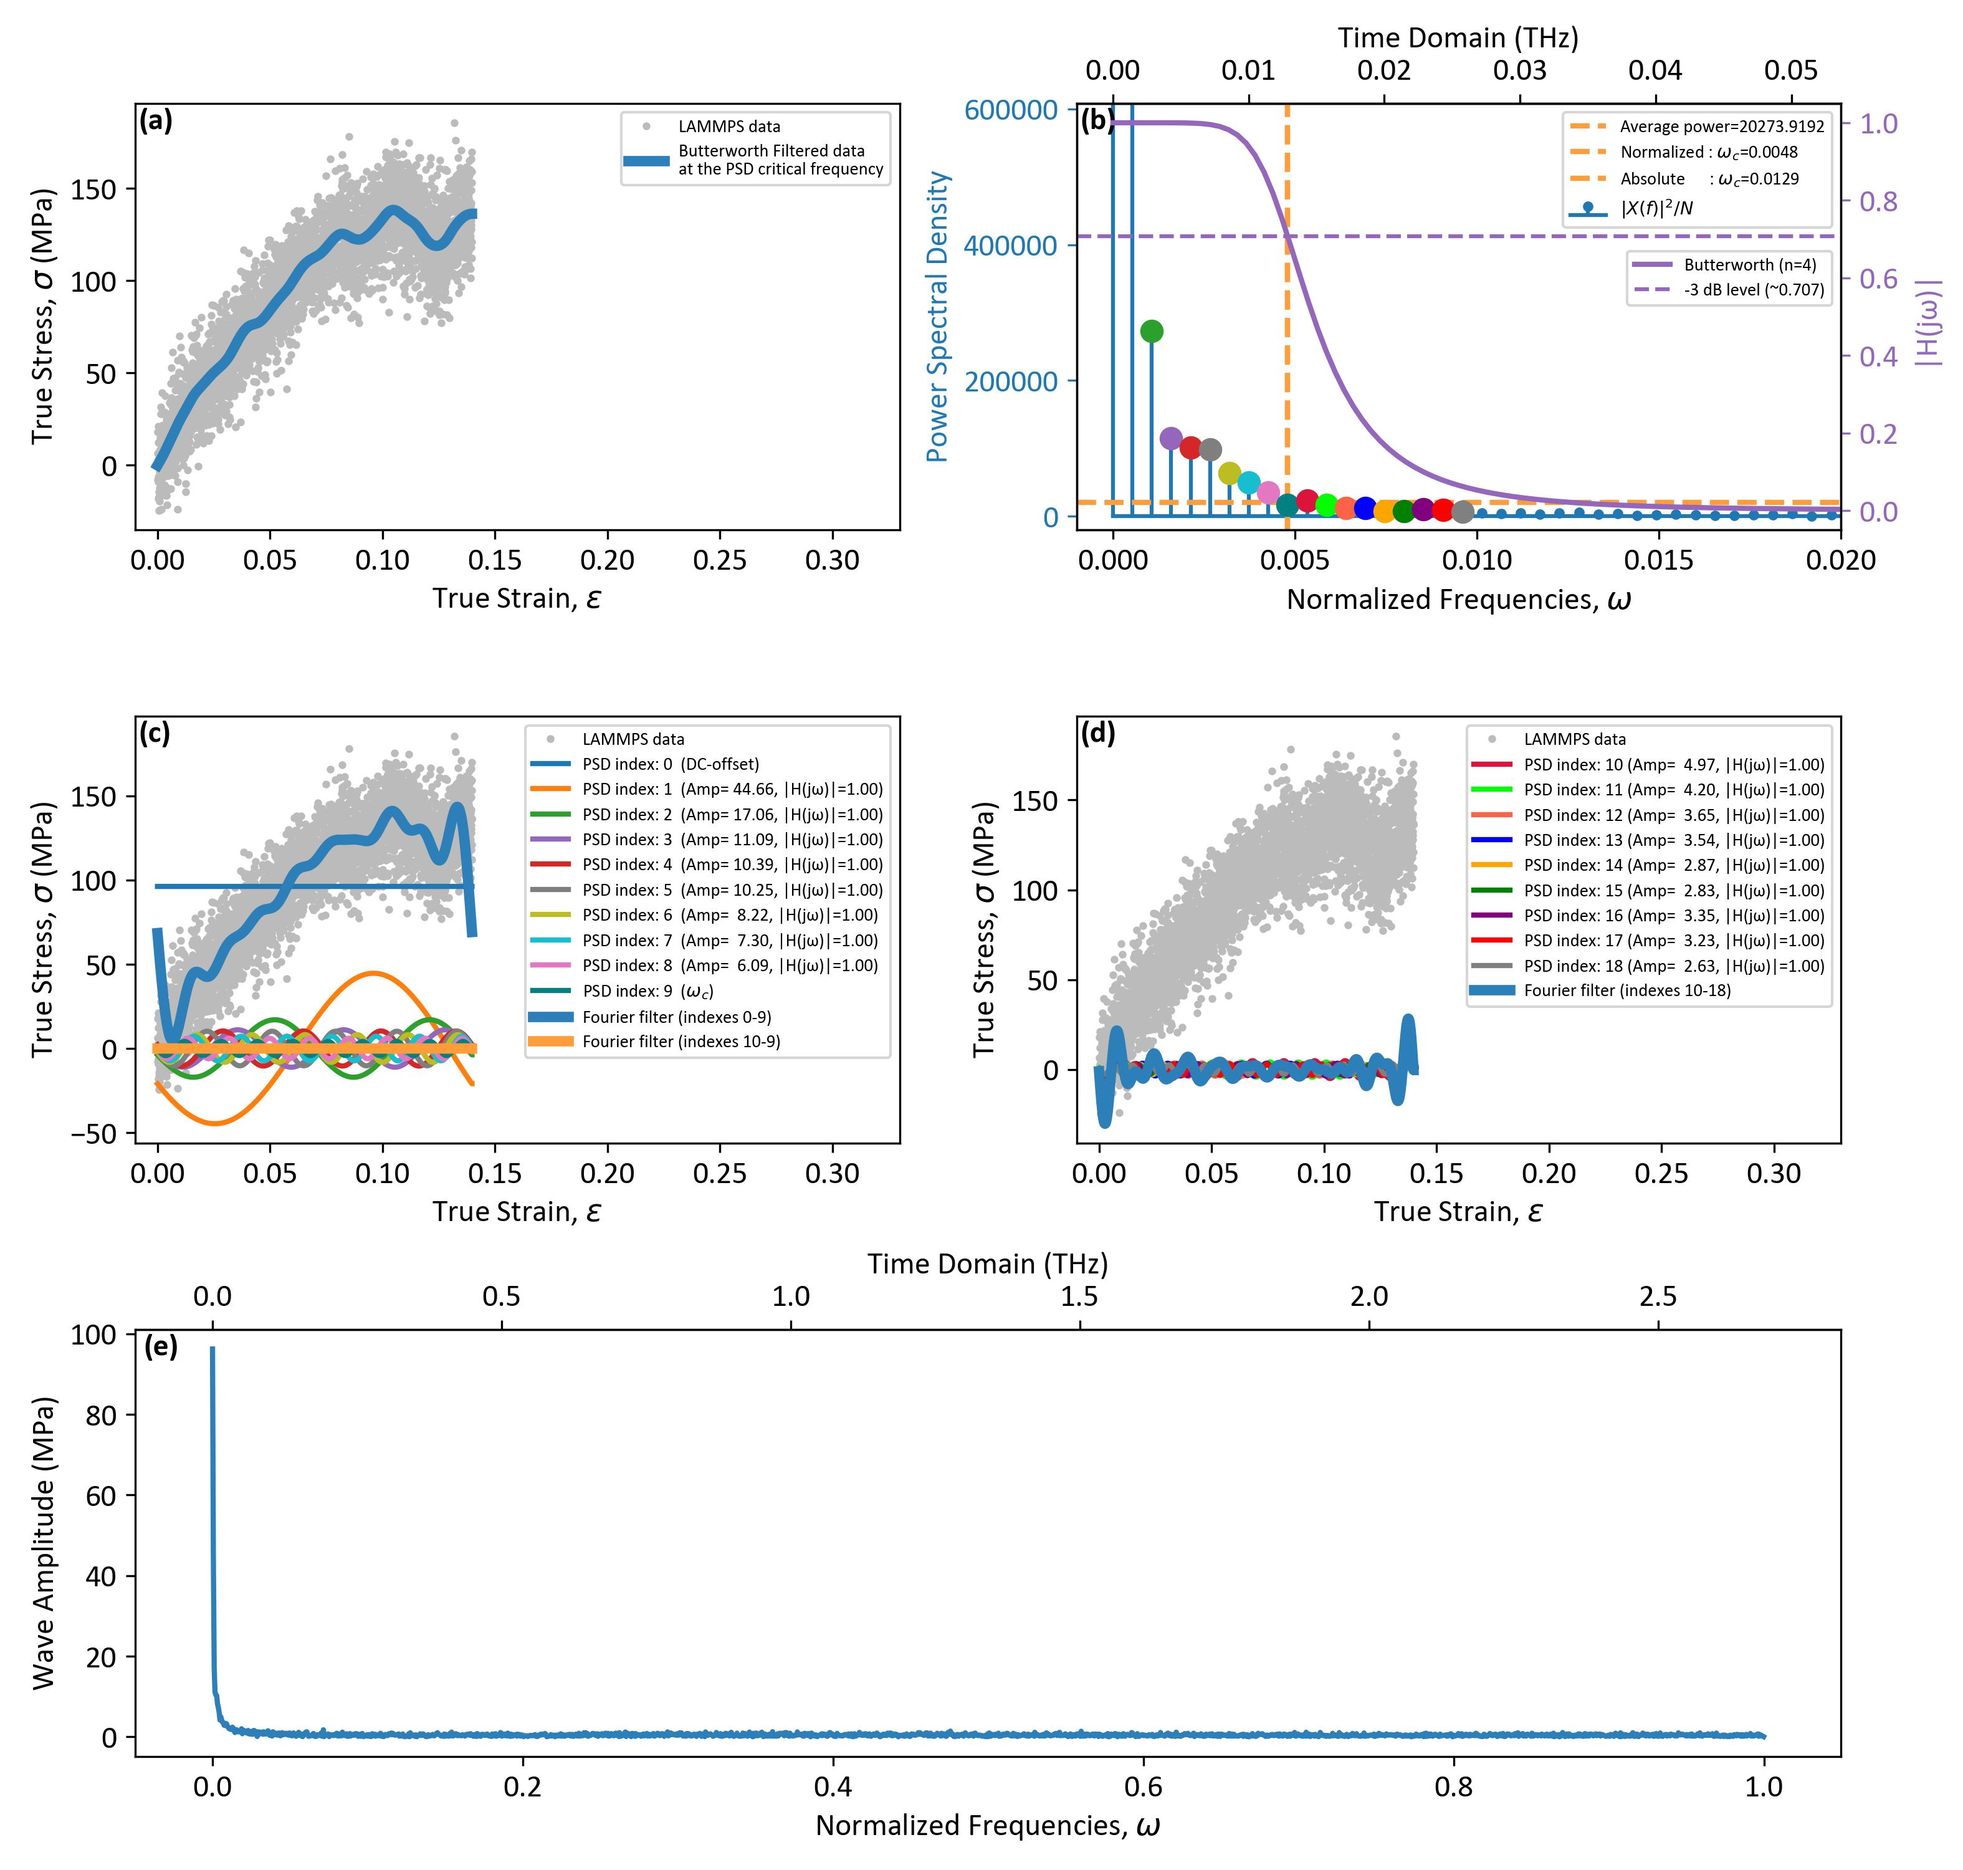
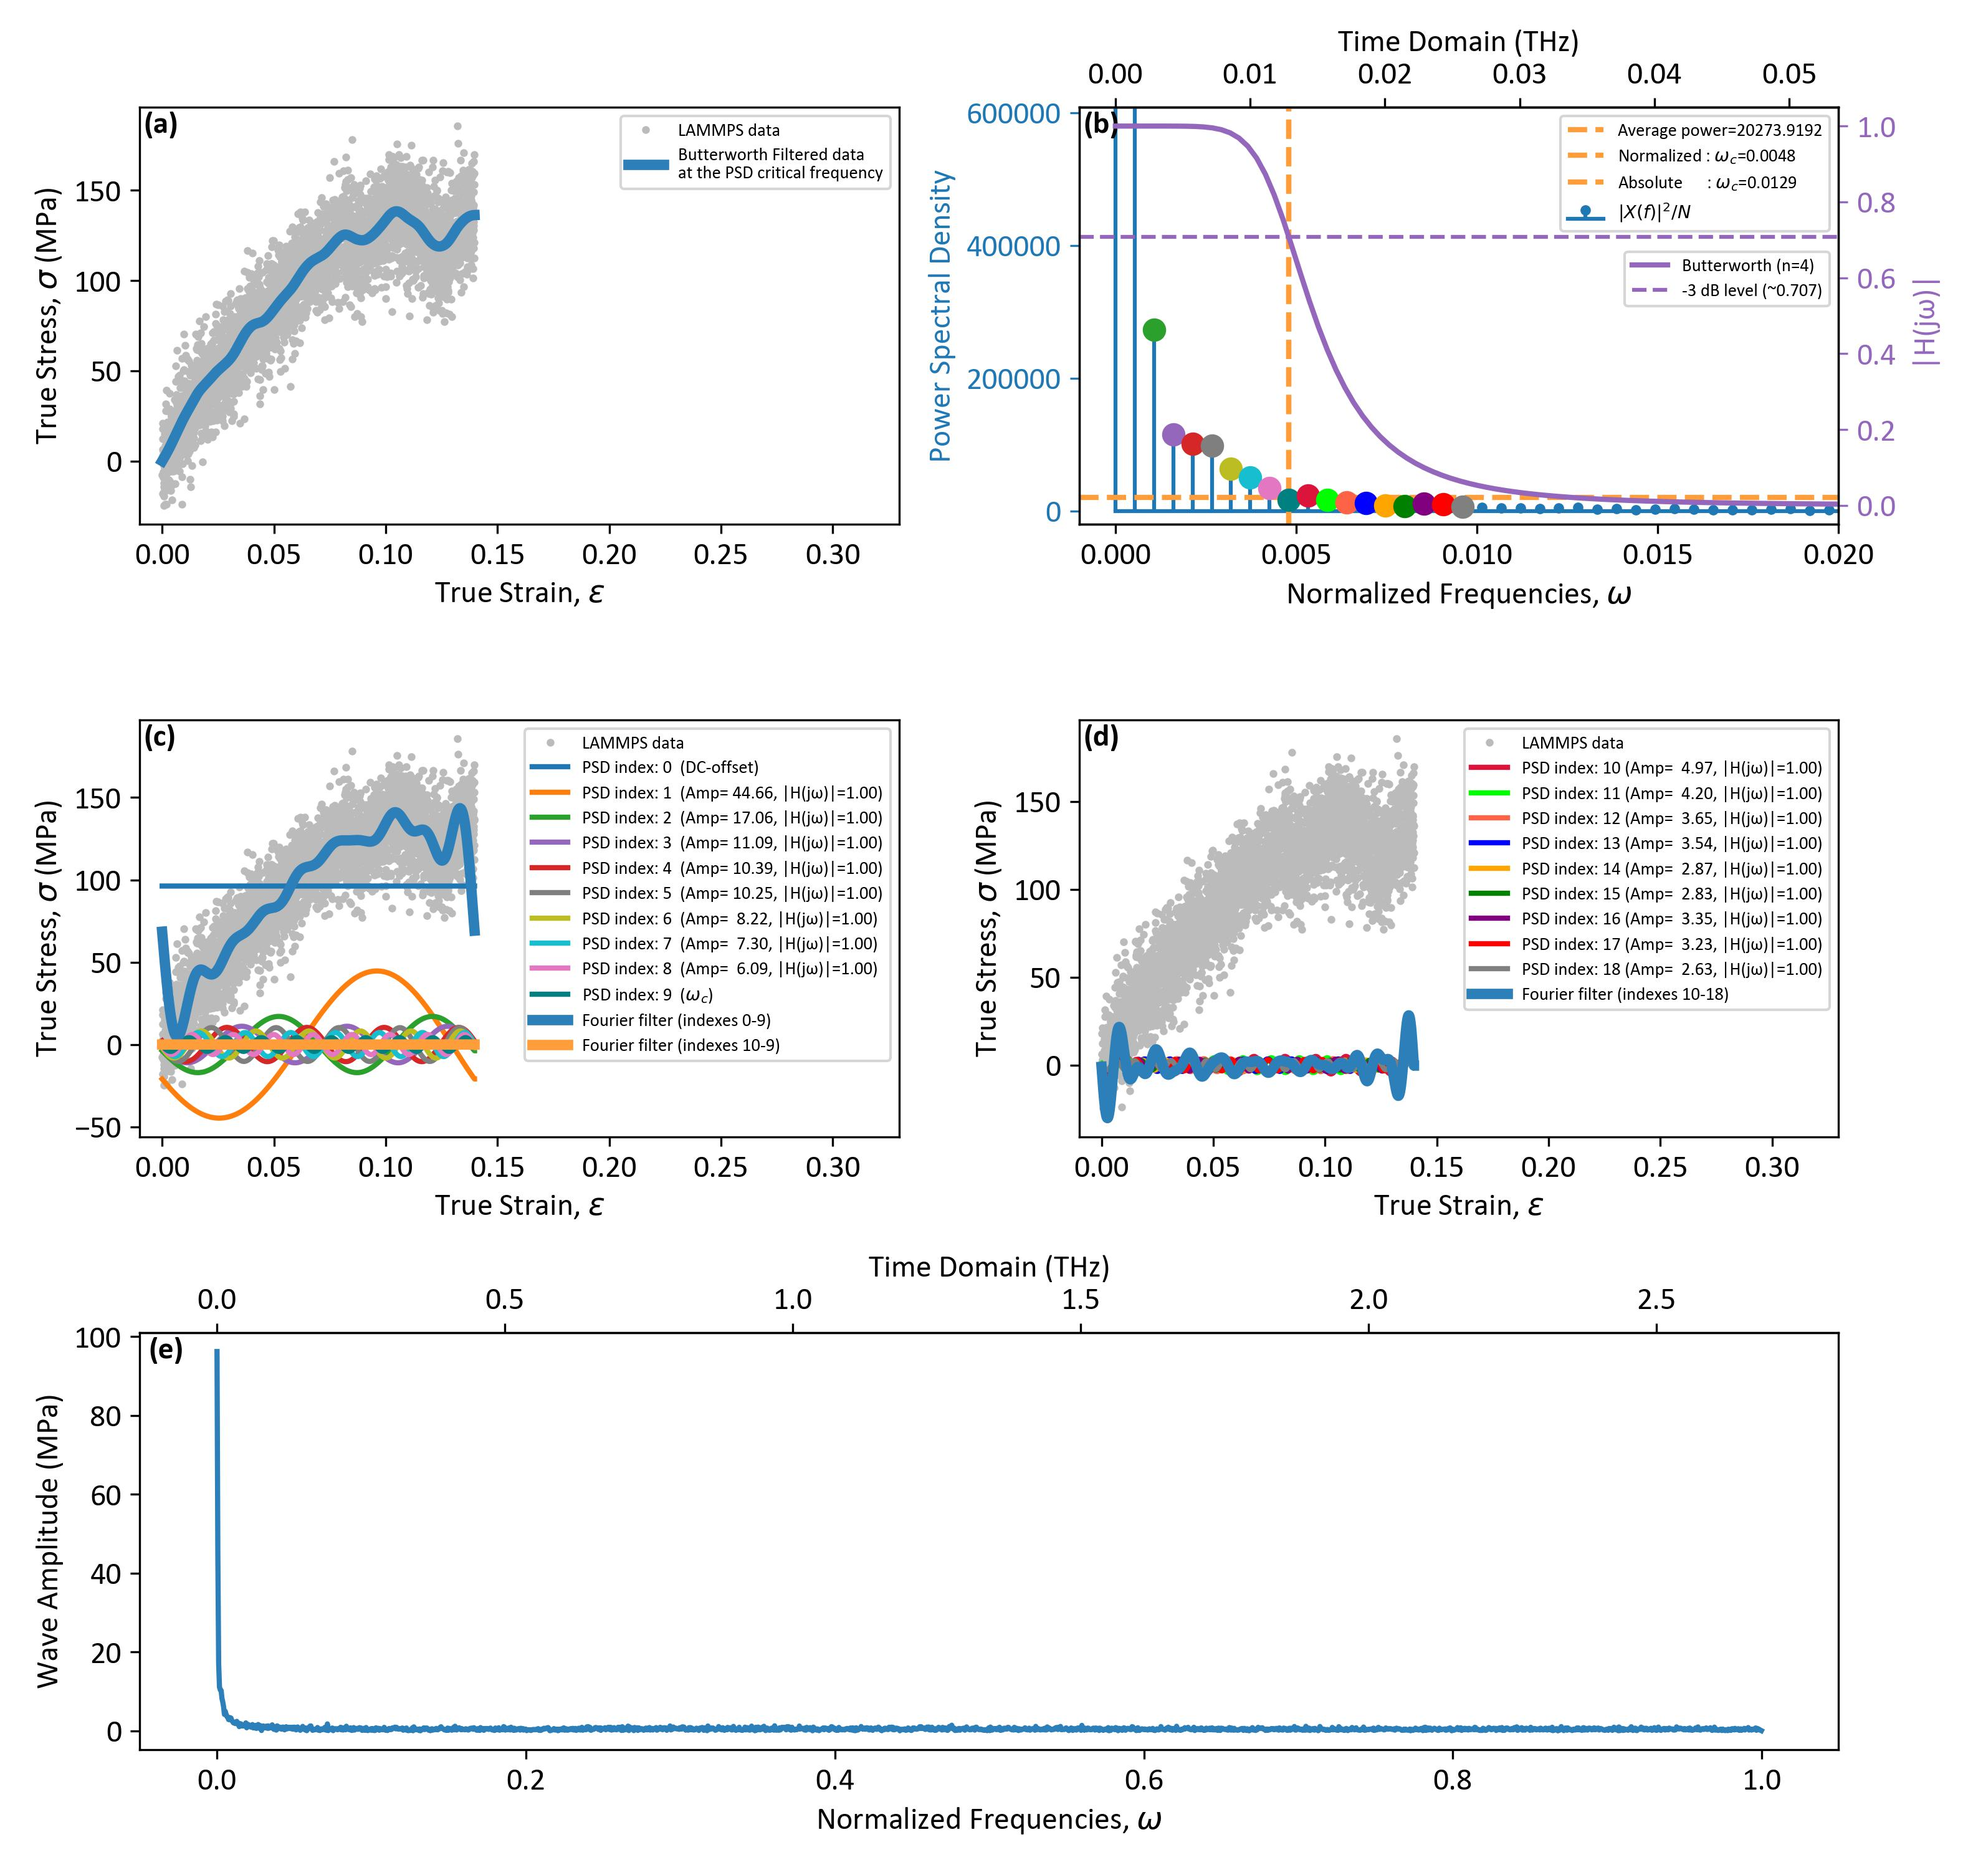
adding onto temp study plot

diff --git a/temp_study.py b/temp_study.py
@@ -39,6 +39,8 @@ Houghton, MI 49931
 import modules.read_log as read_log
 import modules.signals as signals
 import modules.rfr as rfr
+from mpl_toolkits.axes_grid1.inset_locator import inset_axes
+from mpl_toolkits.axes_grid1.inset_locator import mark_inset
 from scipy.optimize import curve_fit
 from cycler import cycler
 from matplotlib.ticker import ScalarFormatter
@@ -257,11 +259,27 @@ if __name__ == "__main__":
     data_10K  = read_and_filter(logfile_10K,  stress_column, strain_column, wn, order, quadrant_mirror)
     data_5K   = read_and_filter(logfile_5K,   stress_column, strain_column, wn, order, quadrant_mirror)
     
-    temp = [300,              150,              75,              38,              19,              10,              5]
-    rms  = [data_300K['rms'], data_150K['rms'], data_75K['rms'], data_38K['rms'], data_19K['rms'], data_10K['rms'], data_5K['rms']]
+    temp   = [300,              150,              75,              38,              19,              10,              5]
+    rms    = [data_300K['rms'], data_150K['rms'], data_75K['rms'], data_38K['rms'], data_19K['rms'], data_10K['rms'], data_5K['rms']]
+    wns    = [data_300K['wn'], data_150K['wn'], data_75K['wn'], data_38K['wn'], data_19K['wn'], data_10K['wn'], data_5K['wn']]
+    wns    = [float(i) for i in wns]
+    print('wns = ', wns)
     
-    print('temp =', temp)
-    print('res  =', rms)
+    # Convert wn to THz
+    # Define sampling rate and number of data points
+    strain = data_300K['strain'] # all temp studies where done at the same strain rate and strain
+    dx = np.mean(np.abs(np.diff(strain)))
+    if dx != 0: 
+        sample_rate = 1/dx # sampling rate
+    else: sample_rate = strain.shape[0]/(np.max(strain) - np.min(strain))    
+    def wn2freq(wns): # Tera-hertz
+        return wns*(0.5*sample_rate)*(strain_rate*1e-12)
+    
+    def freq2wn(freq):
+        return freq / ((0.5*sample_rate) * (strain_rate*1e-12))
+    
+    wn_THz = [float(wn2freq(i)) for i in wns]
+    print('wn_THz = ', wn_THz)
     
     #---------------------#
     # Fit the noise level #
@@ -272,10 +290,13 @@ if __name__ == "__main__":
     # Convert to numpy arrays and reverse
     x = np.array(temp)[::-1]
     y = np.array(rms)[::-1]
+    print('x = ', x)
+    print('y = ', y)
     
     # Fit the data
-    A, err = curve_fit(noise_fit,x,y)
-    x_space = np.linspace(x.min(),x.max(),100)
+    A, err = curve_fit(noise_fit, x, y)
+    x_space = np.linspace(x.min(), x.max(), 1000)
+    x_space = np.linspace(0, x.max(), 1000)
     y_space = noise_fit(x_space, A)
     
     
@@ -312,7 +333,24 @@ if __name__ == "__main__":
     # Start plotting data
     plt.close('all')
     dim = 2.25
-    fig, ((ax1, ax2), (ax3, ax4), (ax5, ax6), (ax7, ax8)) = plt.subplots(4, 2, figsize=(2*(1.2*dim), 4*dim))
+    #fig, ((ax1, ax2, ax3), (ax4, ax5, ax6), (ax7, ax8, ax9), (ax10, ax11, ax12)) = plt.subplots(4, 3, figsize=(3*(1.3*dim), 4*dim))
+    
+    fig = plt.figure(figsize=(3*(1.3*dim), 4.5*dim))
+    gs = fig.add_gridspec(4, 3, height_ratios=[1, 1, 1, 1.6])
+    
+    ax1  = fig.add_subplot(gs[0, 0])
+    ax2  = fig.add_subplot(gs[0, 1])
+    ax3  = fig.add_subplot(gs[0, 2])
+    
+    ax4  = fig.add_subplot(gs[1, 0])
+    ax5  = fig.add_subplot(gs[1, 1])
+    ax6  = fig.add_subplot(gs[1, 2])
+    
+    ax7  = fig.add_subplot(gs[2, 0])
+    ax8  = fig.add_subplot(gs[2, 1])
+    ax9  = fig.add_subplot(gs[2, 2])
+    
+    ax10 = fig.add_subplot(gs[3, :])   # spans all 3 columns
 
 
     ax1.plot(data_300K['strain'], data_300K['stress'], '.', ms=4, color='#bbbbbbff', label='LAMMPS data')
@@ -325,7 +363,7 @@ if __name__ == "__main__":
     ax1.text(*label_rel_pos, '(a) - 300 K', transform=ax1.transAxes, fontsize=fs, fontweight='bold', va='top', ha='left')
     
     #        (center, height, span, height)
-    anchor = (0.0,    1.3,    2.2,  0.1)
+    anchor = (0.4,    1.3,    3.2,  0.1)
     markerscale = 1
     ncol = 2
     ax1.legend(bbox_to_anchor=anchor, loc=2, ncol=ncol, mode='expand', fontsize=legend_fs_scale*fs, markerscale=markerscale)
@@ -390,22 +428,118 @@ if __name__ == "__main__":
     ax7.set_ylim(ylimits)
     ax7.text(*label_rel_pos, '(g) - 5 K', transform=ax7.transAxes, fontsize=fs, fontweight='bold', va='top', ha='left')
     
-    
-    ax8.plot(temp, rms, 'o', ms=6, lw=2, color='tab:purple', label='Noise level')
-    ax8.plot(x_space, y_space, '-', lw=2, color='black', label=f'y = ${A[0]:0.3f} \\sqrt{{T}}$')
-    #ax8.set_yticks([0, 5, 10, 15, 20])
-    ax8.legend(loc='upper right', bbox_to_anchor=(1, 1), fancybox=True, ncol=1, fontsize=legend_fs_scale*fs)
-    ax8.set_xscale('log')
-    ax8.xaxis.set_major_formatter(ScalarFormatter())
-    ax8.text(*label_rel_pos, '(h)', transform=ax8.transAxes, fontsize=fs, fontweight='bold', va='top', ha='left')
-    
+    ax8.plot(temp, rms, 'o', ms=6,  lw=2, zorder=2, color='tab:purple', label='Noise level')
+    ax8.plot(x_space, y_space, '-', lw=2, zorder=1, color='black', label=f'y = ${A[0]:0.3f} \\sqrt{{T}}$')
+    ax8.set_yticks([0, 5, 10, 15])
+    ax8.legend(loc='upper right', bbox_to_anchor=(1.0, 0.425), fancybox=True, ncol=1, fontsize=legend_fs_scale*fs)
+    #ax8.set_xscale('log')
+    #ax8.xaxis.set_major_formatter(ScalarFormatter())
+    ax8.text(*label_rel_pos, '(h) - Noise level metric', transform=ax8.transAxes, fontsize=fs, fontweight='bold', va='top', ha='left')
     ax8.set_xlabel('Temperature (K)', fontsize=fs)
     ax8.set_ylabel('mean(abs(residuals))', fontsize=fs)
     ax8.tick_params(axis='both', which='major', labelsize=fs)
-
-        
     
+    ax9.plot(temp, wns, 'o', ms=6,  lw=2, zorder=2, color='tab:purple', label='{}$_c$'.format(r'$\omega$'))
+
+    secax = ax9.secondary_yaxis('right', functions=(wn2freq, freq2wn))
+    secax.set_ylabel('Frequency (THz)', fontsize=fs)
+    secax.tick_params(axis='y', which='major', labelsize=fs)
+        
+    ax9.text(*label_rel_pos, '(i) - {}$_c$'.format(r'$\omega$'), transform=ax9.transAxes, fontsize=fs, fontweight='bold', va='top', ha='left')
+    ax9.set_ylim((0.004, 0.007))
+    ax9.set_xlabel('Temperature (K)', fontsize=fs)
+    ax9.set_ylabel('Normalized Frequencies, {}$_c$'.format(r'$\omega$'), fontsize=fs)
+    ax9.tick_params(axis='both', which='major', labelsize=fs)
+    
+    
+    # PSD's
+    #color = 'tab:blue'
+    #ax10.stem(data_300K['wns'], data_300K['psd'], linefmt=color, basefmt=color, markerfmt='.', label='$|X(f)|^2/N$')
+    
+    # PSD's
+    temps = [300, 150, 75, 38, 19, 10, 5]
+    datasets = [data_300K, data_150K, data_75K, data_38K, data_19K, data_10K, data_5K]
+    
+    # Create inset axis (inside ax10)
+    axins = inset_axes(ax10, width="35%", height="45%", loc='upper center',
+                       borderpad=1.2)
+
+    # Red -> blue color gradient
+    cmap = plt.cm.coolwarm
+    colors = cmap(np.linspace(1, 0, len(temps)))   # 300 K red, 5 K blue    
+    for T, data, color in zip(temps, datasets, colors):
+        markerline, stemlines, baseline = ax10.stem(
+            data['wns'], data['psd'], linefmt='-', markerfmt='.', basefmt=' '
+        )
+
+        plt.setp(stemlines, color=color, linewidth=1.2, alpha=0.8)
+        plt.setp(markerline, color=color, markersize=3)
+        markerline.set_label('{} K ${}_{}$'.format(T, ' ', ' '))
+        
+        # also show cutoff wn
+        markerline, stemlines, baseline = axins.stem(data['wns'], data['psd'], linefmt='-', markerfmt='.', basefmt=' ')
+        plt.setp(stemlines, color=color, linewidth=2.0, alpha=1.0)
+        plt.setp(markerline, color=color, markersize=10)
+        markerline.set_label('{} K ${}_{}$'.format(T, ' ', ' '))
+
+    
+    for T, data, color in zip(temps, datasets, colors):
+        # Add vertical line at the critical normalized frequency
+        ax10.axvline(float(data['wn']), color=color, linestyle='--', linewidth=1.5, alpha=0.9, label='{}$_c$'.format(r'$\omega$'))
+        axins.axvline(float(data['wn']), color=color, linestyle='--', linewidth=1.5, alpha=1.0)
+    
+    # Add thermostat and barostat frequencies
+    dt = 1.0 # timestep (fs)
+    thermostat = 100*dt # LAMMPS doc: $(100.0*dt)
+    barostat   = 1000*dt # LAMMPS doc: $(1000.0*dt)
+    
+    # Convert damping times to THz
+    thermostat_THz = 1000.0 / thermostat
+    barostat_THz   = 1000.0 / barostat
+
+    # Convert THz to normalized frequency
+    fs_time = strain_rate / dx
+    f_N = 0.5 * fs_time   # Nyquist frequency in Hz
+    def control2wn(freq):
+        return freq / (f_N * 1e-12)
+    
+    thermostat_wn = control2wn(thermostat_THz)
+    barostat_wn   = control2wn(barostat_THz)
+    
+    print('thermostat_THz =', thermostat_THz)
+    print('barostat_THz   =', barostat_THz)
+    print('thermostat_wn  =', thermostat_wn)
+    print('barostat_wn    =', barostat_wn)
+
+    # ax10.axvline(thermostat_wn, color='purple', linestyle='--', linewidth=1.5,
+    #              label=f'Thermostat ({thermostat_THz:.2f} THz)')
+    # ax10.axvline(barostat_wn, color='green', linestyle=':', linewidth=1.5,
+    #              label=f'Barostat ({barostat_THz:.2f} THz)')
+    
+    ax10.text(*label_rel_pos, '(j)   -   log(PSD)', transform=ax10.transAxes, fontsize=fs, fontweight='bold', va='top', ha='left')
+    ax10.set_xlabel('Normalized Frequencies, {}'.format(r'$\omega$'), fontsize=fs)
+    ax10.set_ylabel('Power Spectral Density', fontsize=fs)
+    ax10.legend(loc='upper right', bbox_to_anchor=(1, 1), fancybox=True, ncol=2,
+                fontsize=0.95*legend_fs_scale*fs, markerscale=6.0)
+    #ax10.set_xscale('log')
+    ax10.set_yscale('log')
+    ax10.set_ylim((1, 1e10))
+    
+    axins.set_yscale('log')
+    axins.set_xlim(-0.001, 0.01)
+    axins.set_ylim(1, 1e9)
+    axins.set_xticklabels([])
+    axins.set_yticklabels([])
+    #axins.tick_params(axis='both', which='major', labelsize=0.7*fs)
+    mark_inset(ax10, axins, loc1=2, loc2=4, fc="none", ec="0.5")
+    
+    ax11 = ax10.secondary_xaxis('top', functions=(wn2freq, freq2wn))   
+    ax11.set_xlabel('Frequency (THz)', fontsize=fs)
+    ax11.tick_params(axis='both', which='major', labelsize=fs)
+    
+
     fig.tight_layout()
+    #fig.tight_layout(rect=[0, 0, 1, 0.98])
     plt.show()
     basename = 'logfiles/epoxy_temp_study/epoxy_temp_study'
     fig.savefig(basename+'.jpeg', dpi=300)
